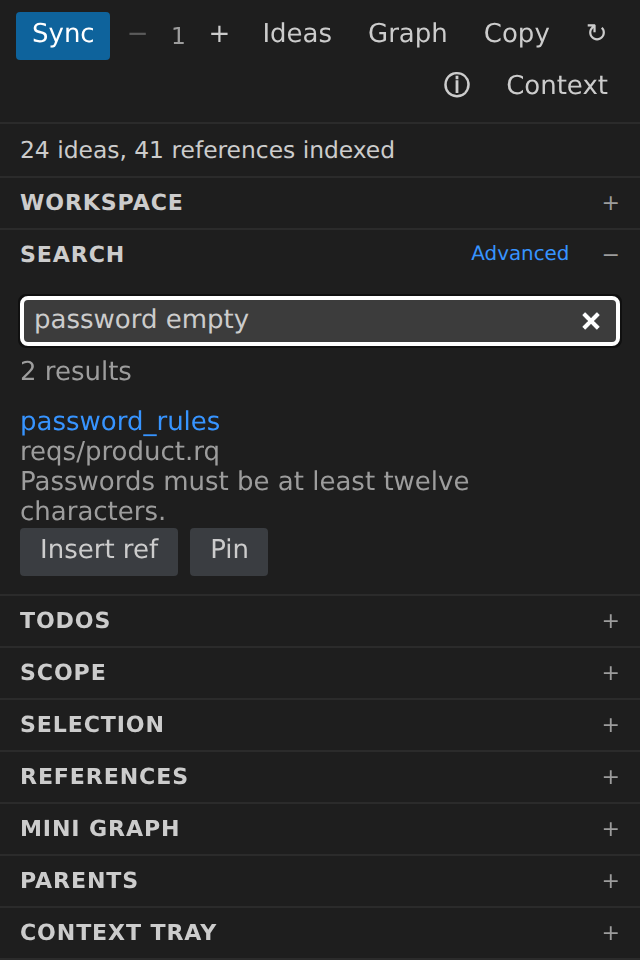
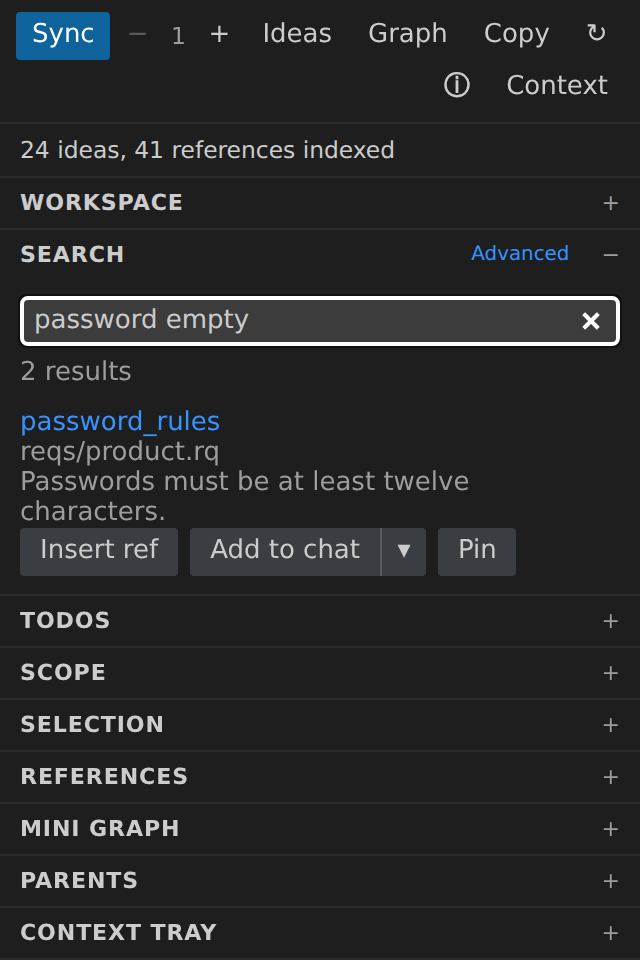
fix build and test errors and re-publish.

Changed region(s): [[0.3125, 0.5312, 0.8125, 0.625]]

diff --git a/packages/language/test/wildcard-references.test.ts b/packages/language/test/wildcard-references.test.ts
@@ -20,7 +20,8 @@ import {
     resolveWildcardReferenceMatches,
     wildcardArgsFromReference,
     type Model,
-    type WildcardMatch
+    type WildcardMatch,
+    type WildcardReference
 } from '@reqlan/language';
 import { ReqlanDocumentLinkProvider } from '../src/reqlan-document-link-provider.js';
 import { REQLAN_OPEN_WILDCARD_COMMAND } from '../src/reqlan-wildcard-resolve.js';
@@ -263,7 +264,7 @@ describe('wildcard references', () => {
         const wildcards = AstUtils.streamAst(host.parseResult.value)
             .filter(node => isBracketReference(node) || isWikiLink(node))
             .map(node => (isBracketReference(node) || isWikiLink(node) ? node.target : undefined))
-            .filter((target): target is NonNullable<typeof target> => !!target && isWildcardReference(target))
+            .filter((target): target is WildcardReference => !!target && isWildcardReference(target))
             .toArray();
         // Bracket + wikilink both parse as WildcardReference.
         expect(wildcards.length).toBe(2);

diff --git a/packages/language/test/semantic-tokens-wildcard.test.ts b/packages/language/test/semantic-tokens-wildcard.test.ts
@@ -28,7 +28,11 @@ describe('semantic tokens for wildcard references', () => {
         ].join('\n'));
 
         const provider = services.Reqlan.lsp.SemanticTokenProvider!;
-        const result = await provider.semanticHighlight(document, {}, CancellationToken.None);
+        const result = await provider.semanticHighlight(
+            document,
+            { textDocument: { uri: document.textDocument.uri } },
+            CancellationToken.None
+        );
         expect(result.data.length).toBeGreaterThan(0);
         expect(result.data.length % 5).toBe(0);
 

diff --git a/site/next-env.d.ts b/site/next-env.d.ts
@@ -1,6 +1,6 @@
 /// <reference types="next" />
 /// <reference types="next/image-types/global" />
-/// <reference path="./out/types/routes.d.ts" />
+/// <reference path="./.next/types/routes.d.ts" />
 
 // NOTE: This file should not be edited
 // see https://nextjs.org/docs/app/api-reference/config/typescript for more information.

diff --git a/packages/analytical/test/webview-table-queries.test.ts b/packages/analytical/test/webview-table-queries.test.ts
@@ -69,6 +69,7 @@ describe('references table column filters', () => {
         ]);
         expect(edgeKindsForReferenceViewTypes(['sub-idea'])).toEqual([
             'references',
+            'wildcard_reference',
             'import',
             'ideaset_member'
         ]);

diff --git a/.changeset/pretty-impalas-marry.md b/.changeset/pretty-impalas-marry.md
@@ -1,0 +1,9 @@
+---
+"@reqlan/analytical": patch
+"@reqlan/language": patch
+"@reqlan/cli": patch
+"reqlan-extension": patch
+"site": patch
+---
+
+Fix missed build and test errors.
